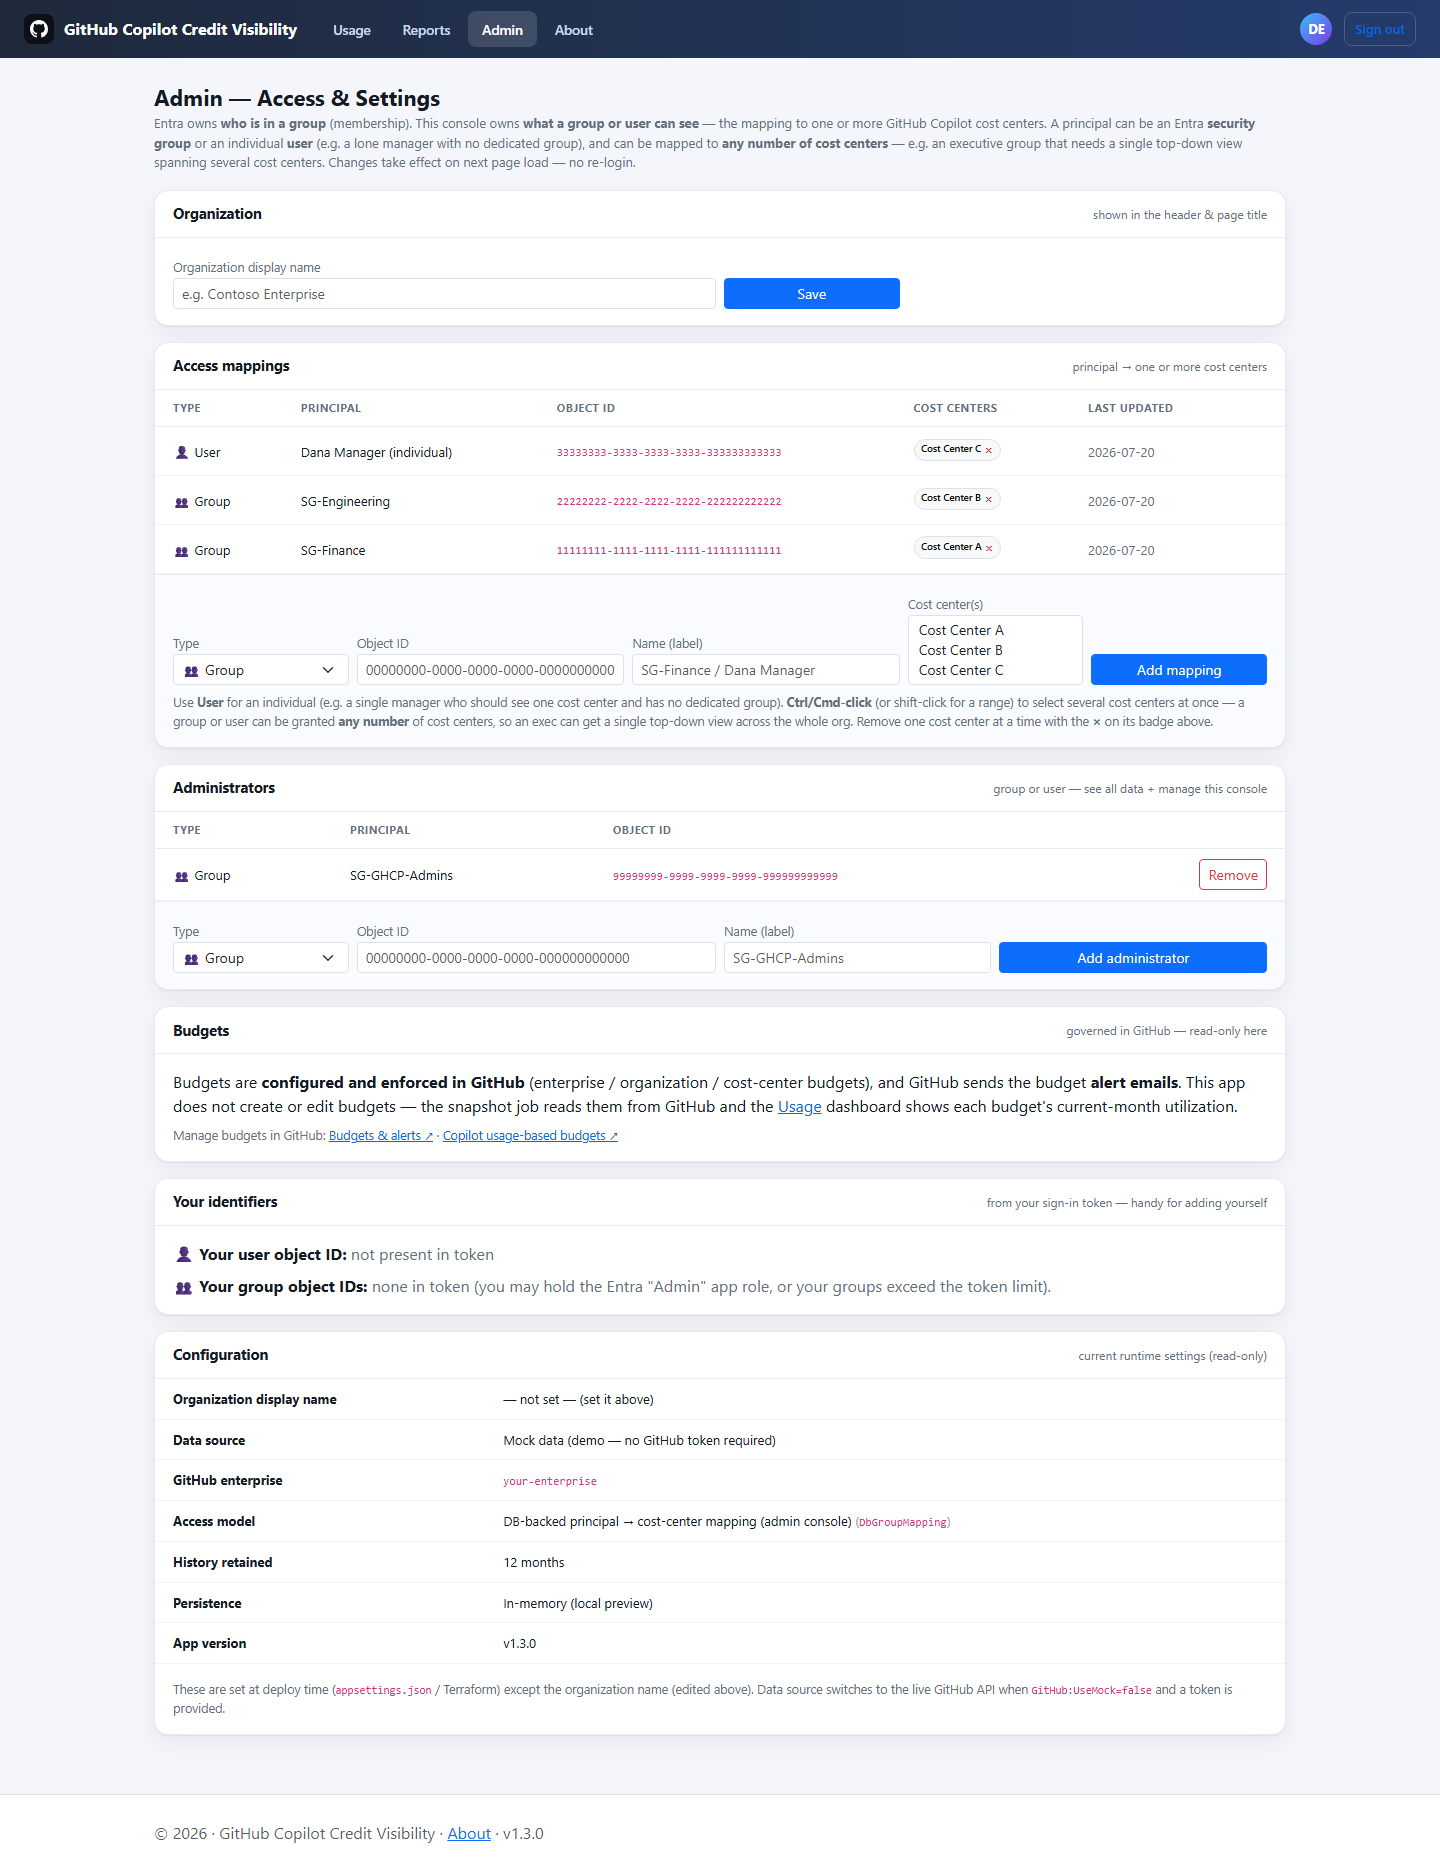
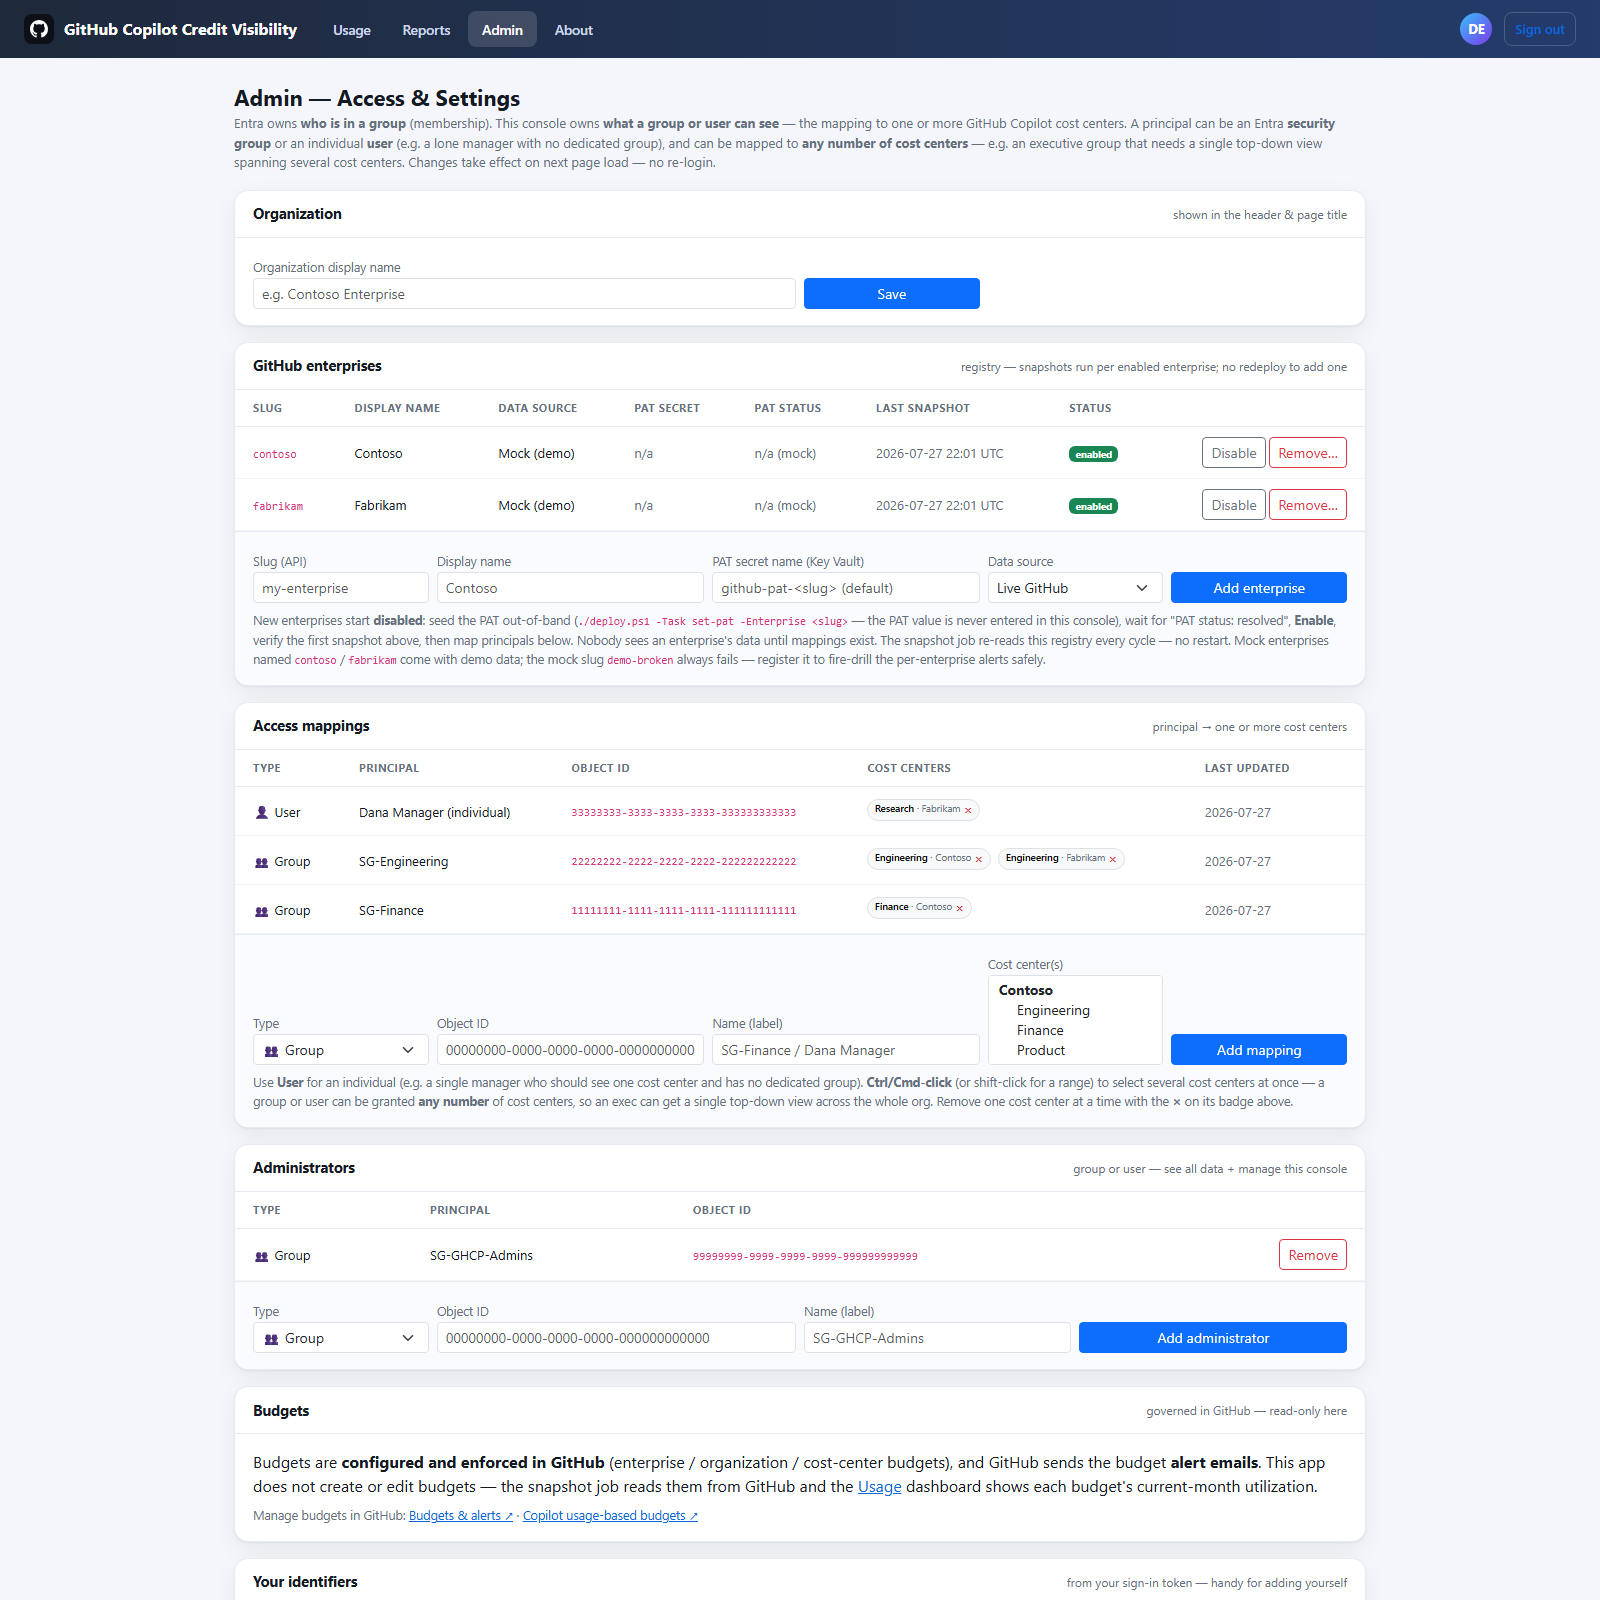
Docs: real multi-enterprise screenshots + About/RUN_LOCALLY updates
- Recaptured dashboard.png, reports.png, admin-mappings.png and about.png
  from a live local run of the multi-enterprise build: enterprise filter
  dropdown, Engineering-Contoso vs Engineering-Fabrikam disambiguation,
  same login appearing once per enterprise, enterprise breakdown report,
  and the admin console's GitHub enterprises registry (add / enable /
  disable / remove with the day-2 onboarding guidance inline).
- README screenshot captions updated to describe the multi-enterprise UI.
- About page (in-app docs): multi-enterprise overview, enterprise as a
  report dimension, and the admin console's registry described.
- RUN_LOCALLY: documents the two seeded demo enterprises and what to try.

diff --git a/README.md b/README.md
@@ -61,17 +61,20 @@ This app closes that gap:
 
 ## Screenshots
 
-| Usage dashboard | Reports (trend builder) |
+| Usage dashboard — two enterprises, enterprise filter | Reports — breakdown by enterprise |
 |---|---|
-| ![Usage dashboard](docs/images/dashboard.png) | ![Reports page](docs/images/reports.png) |
+| ![Usage dashboard with the enterprise filter and enterprise-qualified cost centers](docs/images/dashboard.png) | ![Reports page breaking spend down by enterprise](docs/images/reports.png) |
 
-| Admin console — access mappings | About page (in-app documentation) |
+| Admin console — enterprise registry + access mappings | About page (in-app documentation) |
 |---|---|
-| ![Admin mappings console](docs/images/admin-mappings.png) | ![About page](docs/images/about.png) |
+| ![Admin console with the GitHub enterprises registry and mappings](docs/images/admin-mappings.png) | ![About page](docs/images/about.png) |
 
-*(Screenshots above were captured from a local run against the built-in synthetic demo data —
-see [Demo / mock data](#demo--mock-data). Your real deployment will show your organization's
-actual users, cost centers, and spend.)*
+*(Screenshots above were captured from a local run against the built-in synthetic demo data — two
+mock enterprises, **Contoso** and **Fabrikam**, seeded automatically; note the enterprise dropdown,
+the `Engineering · Contoso` vs `Engineering · Fabrikam` disambiguation, the same users appearing
+once per enterprise, and the admin console's enterprise registry. See
+[Demo / mock data](#demo--mock-data). Your real deployment will show your organization's actual
+enterprises, users, cost centers, and spend.)*
 
 ## Features
 

diff --git a/docs/RUN_LOCALLY.md b/docs/RUN_LOCALLY.md
@@ -85,9 +85,15 @@ Go to the HTTPS URL printed in the console (e.g. `https://localhost:5001`).
   (Easy Auth/Entra sign-in only applies once the app is deployed behind Azure App Service — see
   the root [README](../README.md) and [infra/README.md](../infra/README.md).)
 - You should land on the **Usage** dashboard, pre-populated with 12 months of synthetic AI-credit
-  spend across 12 mock users and 3 mock cost centers. Try the **Reports** page (break down by
-  user/model/cost-center, by day/week/month) and **Admin → Access mappings** (map a fake Entra
-  group/user object ID to a cost center — no real Entra tenant needed to try the console itself).
+  spend across **two demo GitHub enterprises** — Contoso (12 users) and Fabrikam (8 users, two of
+  whom deliberately share logins with Contoso users, plus a cost center also named "Engineering")
+  — so the multi-enterprise UI has something real to show: the **enterprise dropdown** in the
+  header, enterprise-qualified cost-center labels (`Engineering · Contoso` vs
+  `Engineering · Fabrikam`), and per-enterprise budgets. Try the **Reports** page (break down by
+  user/model/cost-center/**enterprise**, by day/week/month), and **Admin** for both **GitHub
+  enterprises** (the registry — add/disable/remove enterprises, no redeploy) and **Access
+  mappings** (map a fake Entra group/user object ID to cost centers across either enterprise — no
+  real Entra tenant needed to try the console itself).
 
 To stop the app, go back to the terminal and press `Ctrl+C`.
 
